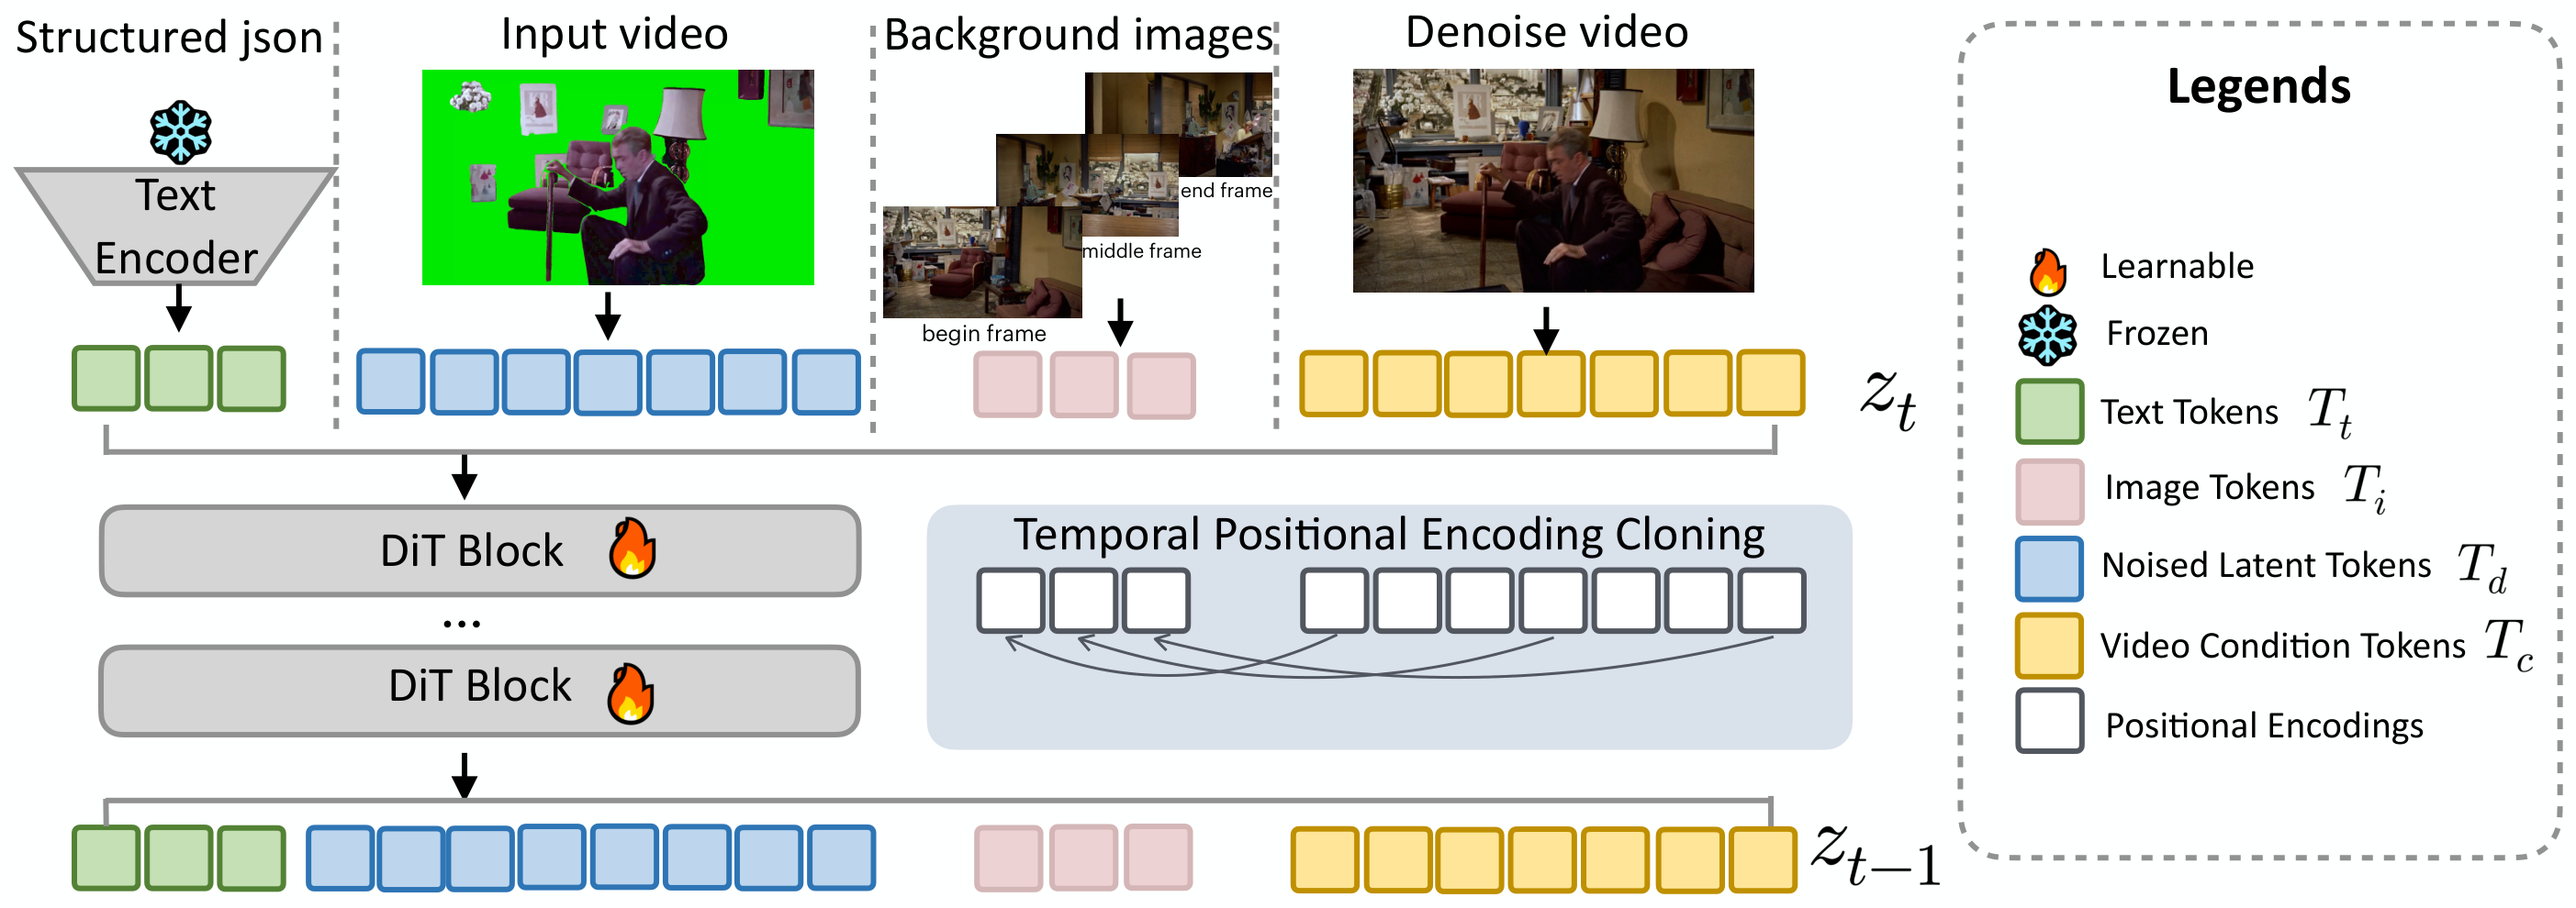
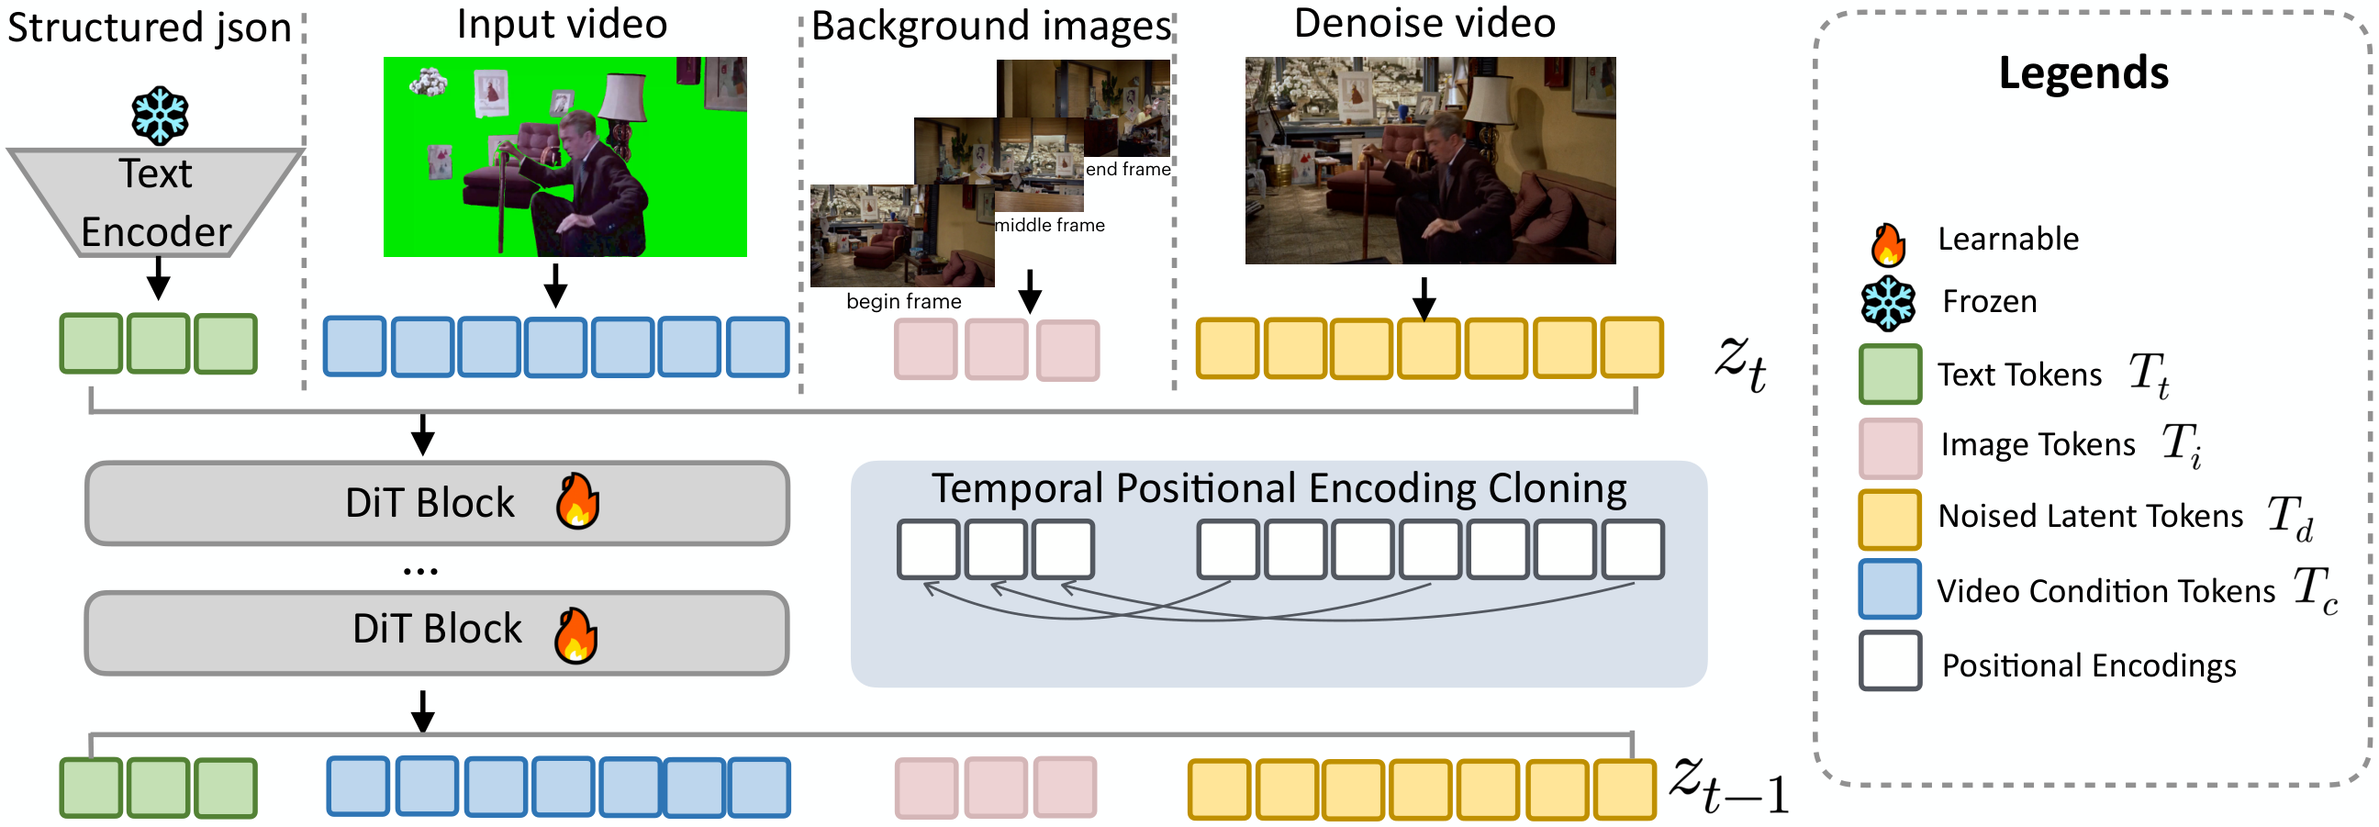
update method_fig.png; mark Code button as Coming Soon (not open-sourced)

diff --git a/docs/index.html b/docs/index.html
@@ -26,6 +26,7 @@
         }
         .btn-row a:hover { background: #555; color: white; }
         .btn-row a i { margin-right: 6px; font-size: 18px; }
+        .btn-row a.disabled { background: #888; cursor: not-allowed; pointer-events: none; opacity: 0.7; }
         video { width: 100%; border-radius: 8px; }
         table.results { width: 100%; border-collapse: collapse; font-size: 14px; margin: 15px 0; }
         table.results th { background: #e6e6e6; padding: 8px; text-align: center; }
@@ -63,7 +64,7 @@
 
     <div class="btn-row">
         <a href="#" target="_blank"><i class="ai ai-arxiv"></i> Paper</a>
-        <a href="https://github.com/ghyggg/PAI_Studio" target="_blank"><i class="fa-brands fa-github"></i> Code</a>
+        <a class="disabled"><i class="fa-brands fa-github"></i> Code (Coming Soon)</a>
     </div>
 
     <div style="margin-top: 25px;">
